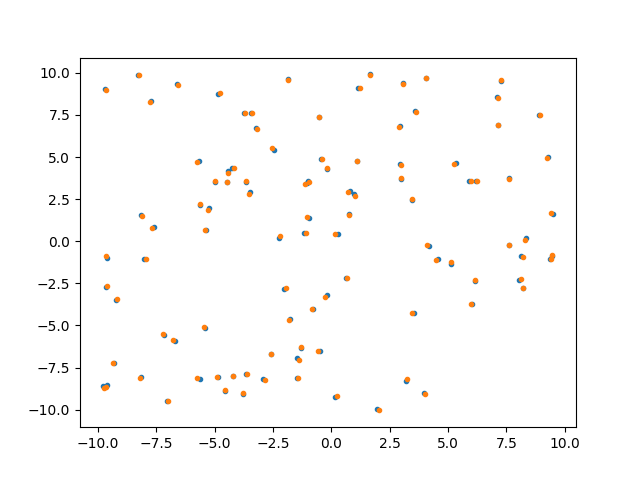
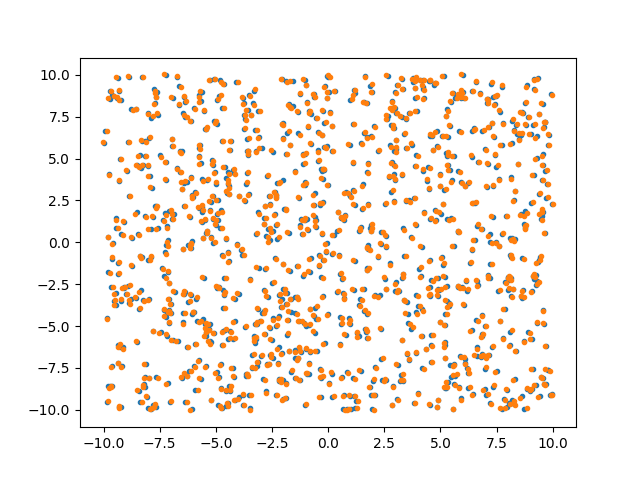
対応点群不明での最適化に変更

diff --git a/example/point_cloud_matching.cpp b/example/point_cloud_matching.cpp
@@ -4,6 +4,7 @@
 #include <chrono>
 #include <string>
 #include <random>
+#include <limits>
 
 #include <Eigen/Dense>
 #include <ceres/ceres.h>
@@ -24,13 +25,14 @@
 
 class TransformationError {
 public:
-    TransformationError(Eigen::Vector3d query, Eigen::Vector3d truth) : query_(query), truth_(truth) {}
+    TransformationError(Eigen::Vector3d query) : query_(query) {}
+    static void set_truth(std::vector<Eigen::Vector3d> truth) { truth_ = truth; }
     bool operator()(const double* const x, double* residual) const
     {
         Eigen::Vector6d eigen_x = Eigen::Map<const Eigen::Vector6d>(x);
         const auto transformation = math_utils::lie::exp(eigen_x);
         auto result = math_utils::lie::transformation(transformation, query_);
-        auto e = truth_ - result;
+        auto e = minimum_error(result);
         residual[0] = e(0);
         residual[1] = e(1);
         residual[2] = e(2);
@@ -38,8 +40,21 @@ public:
     }
 
 private:
+    inline static std::vector<Eigen::Vector3d> truth_ = {};
     Eigen::Vector3d query_;
-    Eigen::Vector3d truth_;
+    Eigen::Vector3d minimum_error(const Eigen::Vector3d& v) const
+    {
+        double min_e_sq_norm = std::numeric_limits<double>::max();
+        Eigen::Vector3d min_e;
+        for (const auto& t : truth_) {
+            auto e = t - v;
+            if (double sq_norm = e.dot(e); sq_norm < min_e_sq_norm) {
+                min_e = e;
+                min_e_sq_norm = sq_norm;
+            }
+        }
+        return min_e;
+    }
 };
 
 int main()
@@ -50,20 +65,20 @@ int main()
     std::uniform_real_distribution<> pos_rand(-10, 10);
     std::uniform_real_distribution<> error_rand(-0.1, 0.1);
 
-    constexpr size_t point_cloud_num = 100;
+    constexpr size_t point_cloud_num = 1000;
 
-    const Eigen::Vector6d x_truth(5.0, -5.0, 0.5, 0.3, -0.2, -0.3);
+    const Eigen::Vector6d x_truth(10.0, -10.0, 0.5, 0.3, -0.2, -0.3);
     const auto x_truth_transformation = math_utils::lie::exp(x_truth);
 
-    std::array<Eigen::Vector3d, point_cloud_num> point_cloud_truth;
-    std::array<Eigen::Vector3d, point_cloud_num> point_cloud_query;
+    std::vector<Eigen::Vector3d> point_cloud_truth(point_cloud_num);
+    std::vector<Eigen::Vector3d> point_cloud_query(point_cloud_num);
 
     for (size_t i = 0; i < point_cloud_num; i++) {
         point_cloud_truth[i] = Eigen::Vector3d(pos_rand(engine), pos_rand(engine), pos_rand(engine));
         point_cloud_query[i] = math_utils::lie::transformation(x_truth_transformation, point_cloud_truth[i] + Eigen::Vector3d(error_rand(engine), error_rand(engine), error_rand(engine)));
     }
 
-    auto plot_point_cloud = [](const std::array<Eigen::Vector3d, point_cloud_num>& point_cloud) {
+    auto plot_point_cloud = [](const std::vector<Eigen::Vector3d>& point_cloud) {
         std::vector<double> x, y, z;
         for (size_t i = 0; i < point_cloud.size(); i++) {
             x.push_back(point_cloud[i](0));
@@ -81,9 +96,11 @@ int main()
     Eigen::Vector6d initial_x = Eigen::Vector6d::Zero();
     Eigen::Vector6d x = initial_x;
 
+    TransformationError::set_truth(point_cloud_truth);
+
     ceres::Problem problem;
     for (size_t i = 0; i < point_cloud_num; i++) {
-        ceres::CostFunction* cost_function = new ceres::NumericDiffCostFunction<TransformationError, ceres::CENTRAL, 3, 6>(new TransformationError(point_cloud_query[i], point_cloud_truth[i]));
+        ceres::CostFunction* cost_function = new ceres::NumericDiffCostFunction<TransformationError, ceres::CENTRAL, 3, 6>(new TransformationError(point_cloud_query[i]));
         problem.AddResidualBlock(cost_function, NULL, x.data());
     }
 
@@ -96,7 +113,7 @@ int main()
     std::cout << "x:" << initial_x.transpose() << "->" << x.transpose() << std::endl;
 
     const auto x_transformation = math_utils::lie::exp(x);
-    std::array<Eigen::Vector3d, point_cloud_num> point_cloud_result;
+    std::vector<Eigen::Vector3d> point_cloud_result(point_cloud_num);
     for (size_t i = 0; i < point_cloud_num; i++) {
         point_cloud_result[i] = math_utils::lie::transformation(x_transformation, point_cloud_query[i]);
     }
